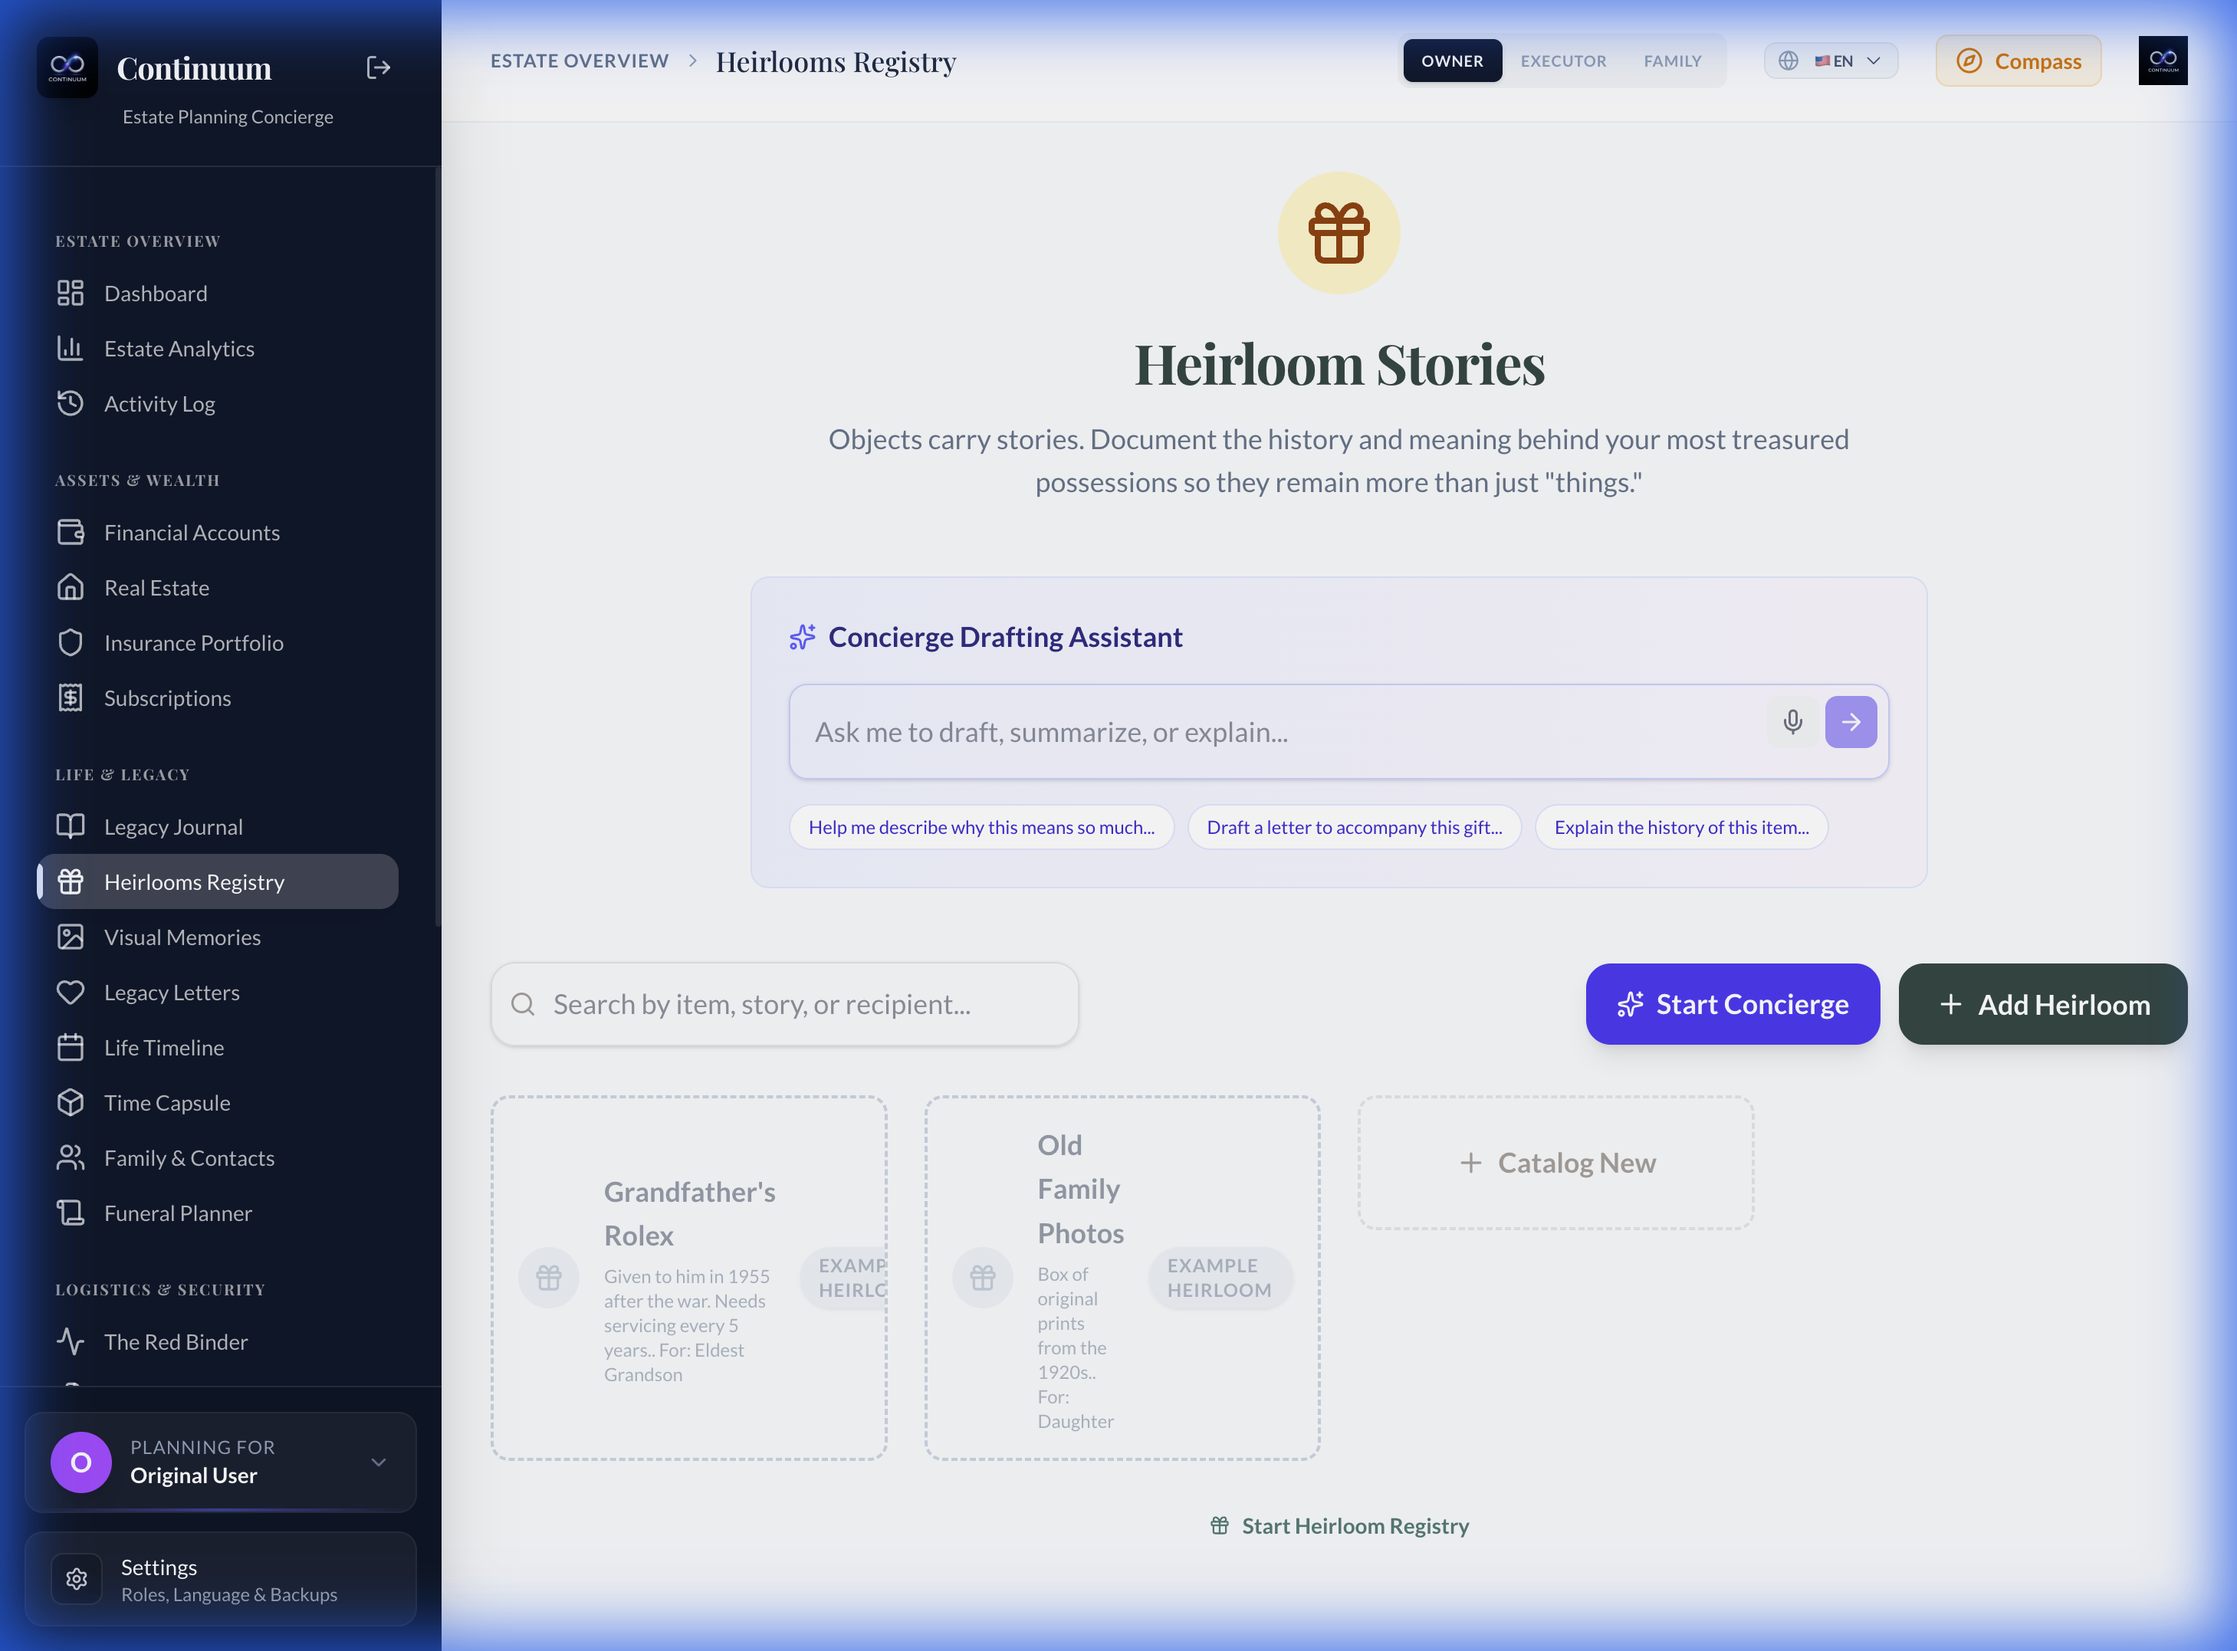
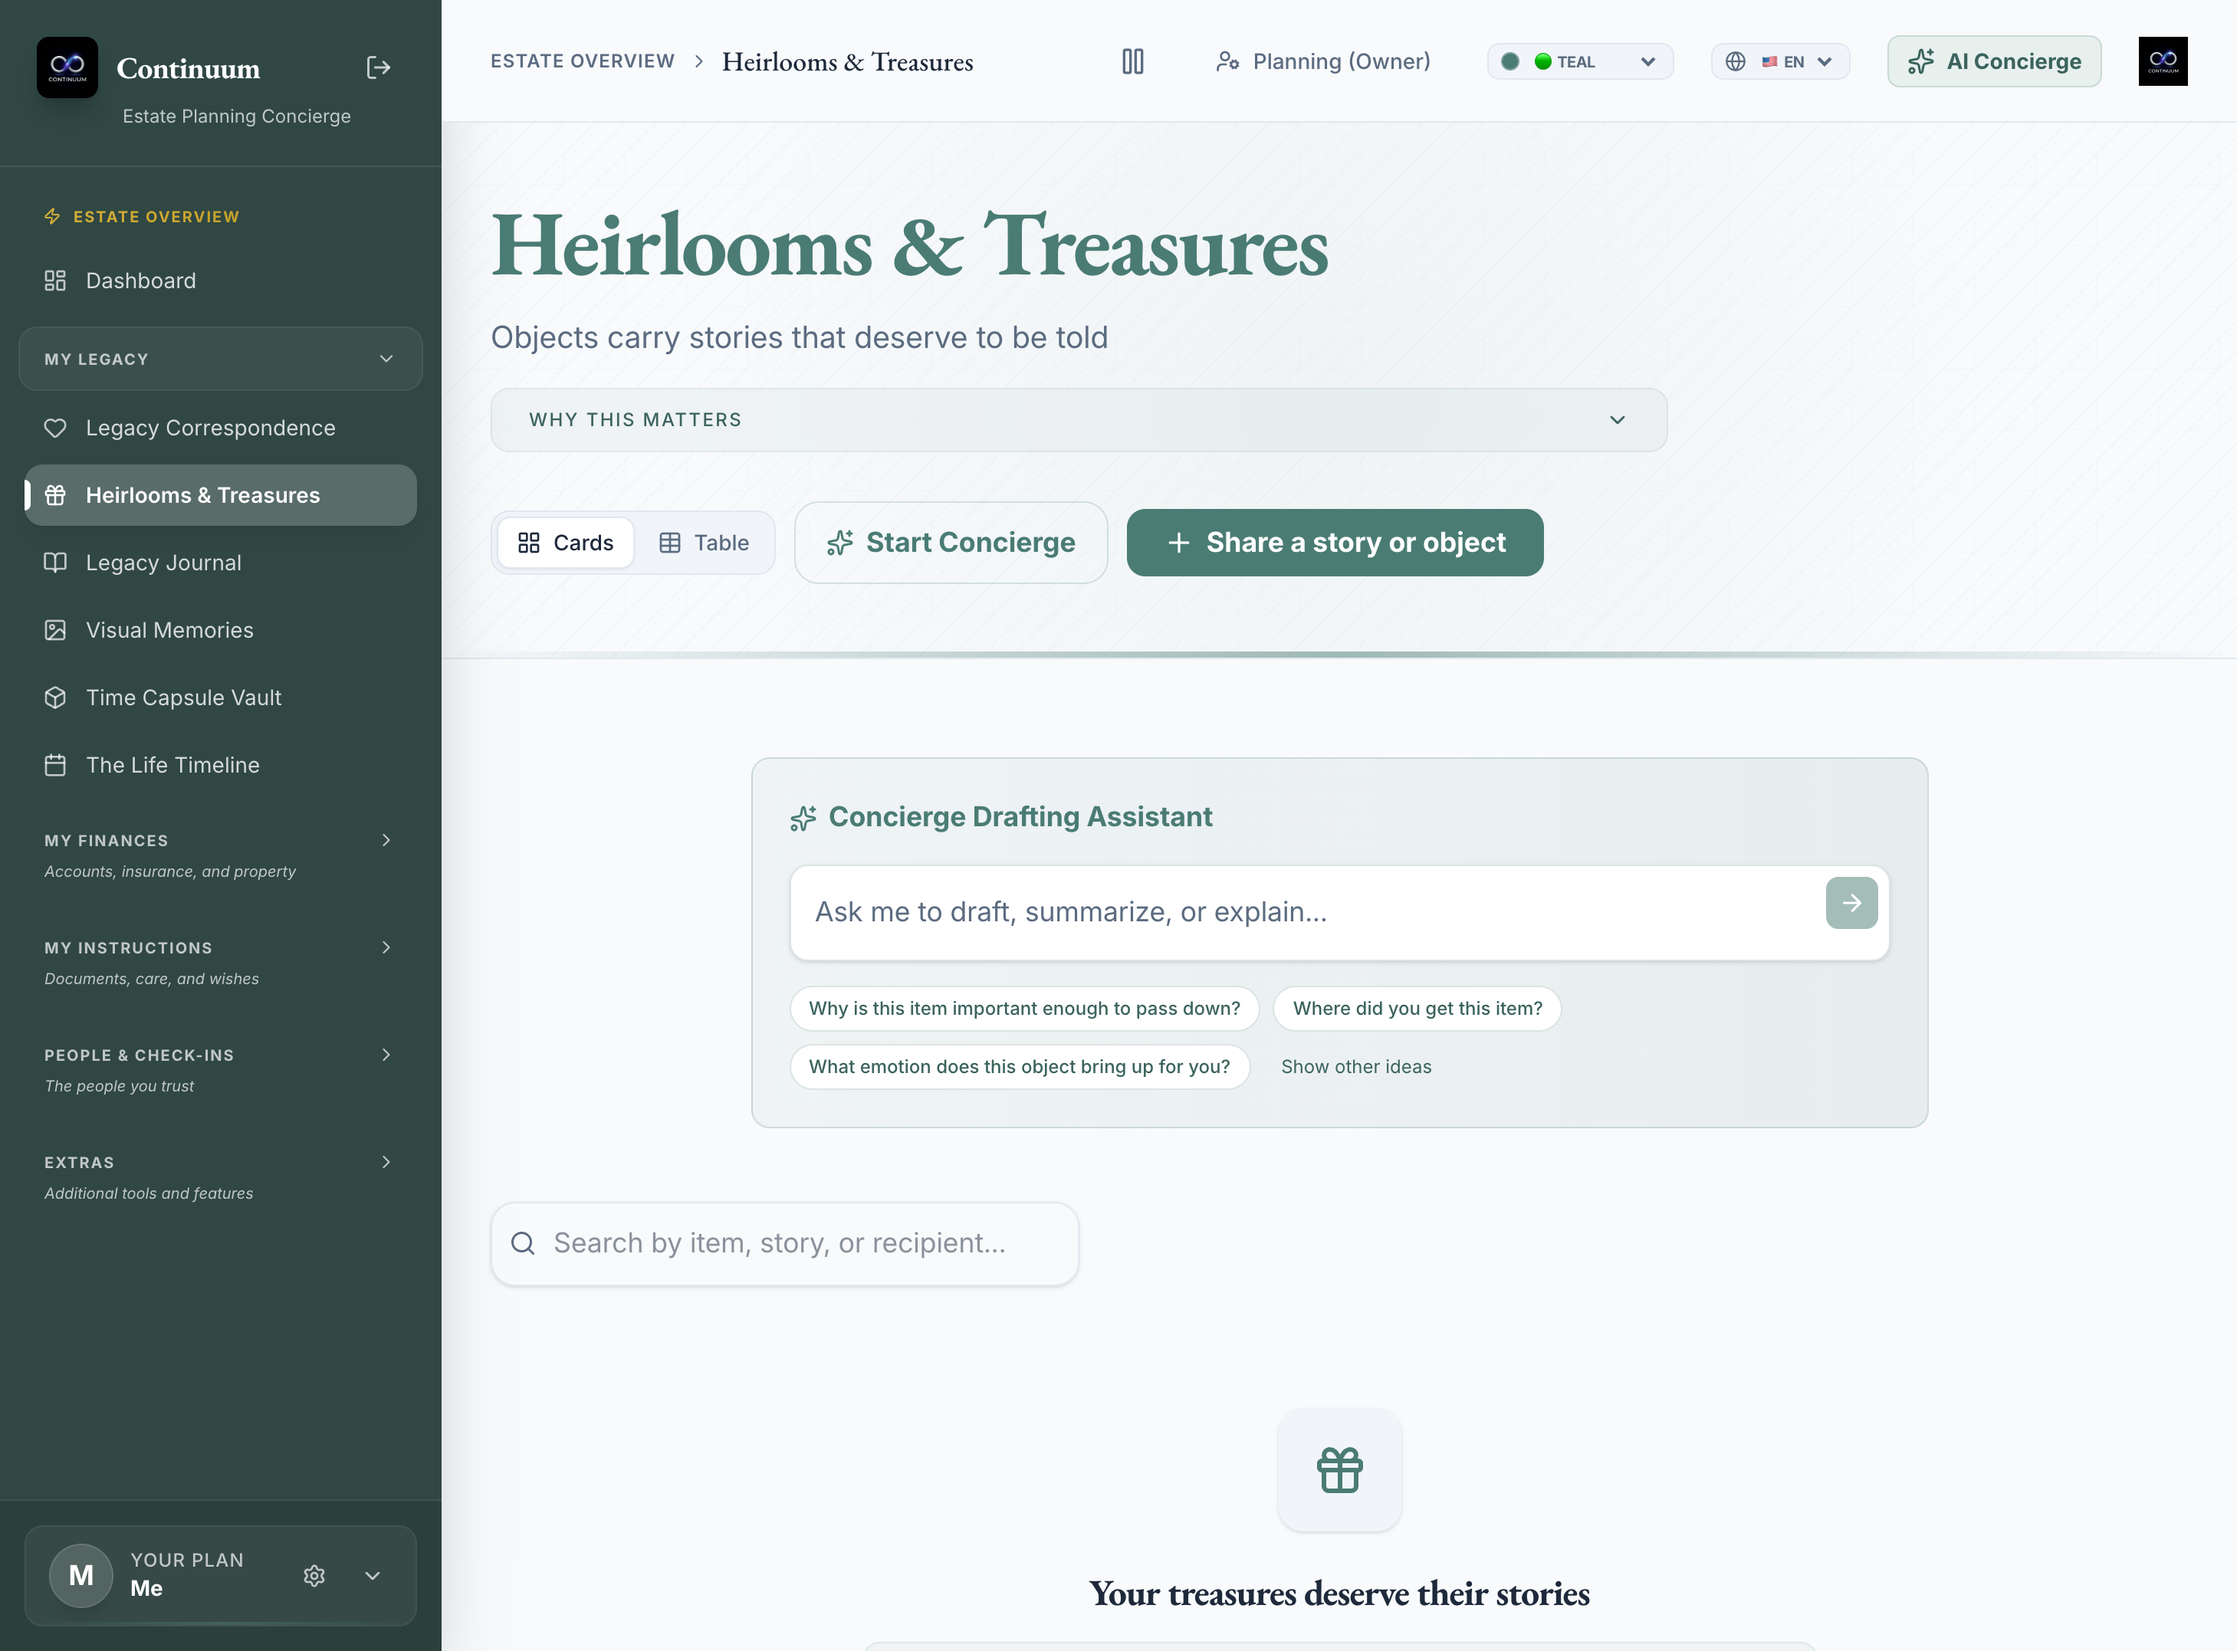
X272: fresh product shots (heirlooms, letters, vault); positive Digital Guardian copy
- shot_vault.png, shot_letters.png, shot_heirlooms.png (2918x2154 PNG, same
  size/format) replaced with fresh shots of /modules/financial-accounts,
  /modules/letters and /modules/heirlooms (teal, light), matching X271's
  shot_guardian. Old shots carried "so nothing gets lost", "0 Drafts Saved",
  "Concierge V4.0", "Concierge Mode: Showing examples based on your region",
  "Original User" and a retired purple UI.
- digital-guardian copy: "Bypass 2FA" -> "Enter the 2FA Code"; Apple "when
  you're gone" -> "when the time comes"; Google "after a period of no
  sign-ins" -> "once your account has been inactive for a period you
  choose"; Facebook "Delete After Death" -> "ask Facebook to remove the
  account instead"; LinkedIn "account of a deceased member" -> "Your
  executor can ask LinkedIn to memorialize or close your account".
  Negation lines on the page (all guides expanded): 6 -> 1 (the factual
  LinkedIn death-certificate line, kept as accurate).

Claude-Session: https://claude.ai/code/session_01JobVAvsGwJBD2HfmWKyCVM

diff --git a/frontend/src/routes/modules/digital-guardian/+page.svelte b/frontend/src/routes/modules/digital-guardian/+page.svelte
@@ -528,7 +528,7 @@
                                 class="font-bold {fireDrill.twoFactor
                                     ? 'text-primary-foreground'
                                     : 'text-foreground group-hover:text-primary'}"
-                                >Bypass 2FA</span
+                                >Enter the 2FA Code</span
                             >
                             {#if fireDrill.twoFactor}
                                 <CircleCheck size={16} />
@@ -663,7 +663,7 @@
                     </div>
                     <p class="text-sm text-muted-foreground">
                         Choose someone who can reach your Apple account data
-                        when you're gone.
+                        when the time comes.
                     </p>
                 </div>
             </button>
@@ -759,8 +759,8 @@
                     transition:slide
                 >
                     <p class="text-sm text-muted-foreground mb-4">
-                        Google can notify your chosen contact after a period of
-                        no sign-ins that you choose.
+                        Google can notify your chosen contact once your account
+                        has been inactive for a period you choose.
                     </p>
                     <ol
                         class="space-y-4 text-sm text-foreground list-decimal pl-4 mb-6"
@@ -936,7 +936,7 @@
                             Choose a friend to manage your account (they can pin
                             posts, change profile pic).
                         </li>
-                        <li>Or you can choose "Delete After Death".</li>
+                        <li>Or you can ask Facebook to remove the account instead.</li>
                     </ol>
                     <div
                         class="flex items-center gap-4 pt-4 border-t border-border"
@@ -982,8 +982,8 @@
                         {/if}
                     </div>
                     <p class="text-sm text-muted-foreground">
-                        Request to memorialize or close the account of a
-                        deceased member.
+                        Your executor can ask LinkedIn to memorialize or close
+                        your account.
                     </p>
                 </div>
             </button>
